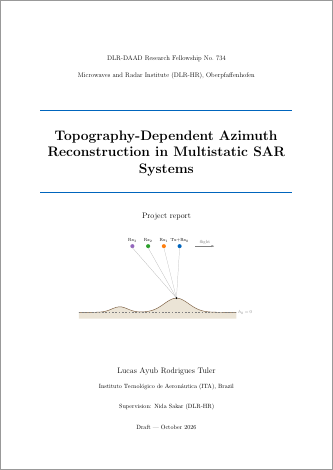
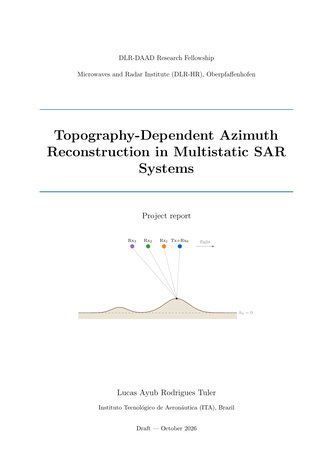
Remove the fellowship number and the supervision line; keep only the citations

diff --git a/sar_reconstruction/sar_recon/subband_sata_explicit.py b/sar_reconstruction/sar_recon/subband_sata_explicit.py
@@ -87,7 +87,7 @@ def sata_1d_subband(data, delta_C0_array, rref, prf, v, wl, r,
       f_k     : Doppler centroid of sub-band k [Hz]  (= (-Nrx/2+k+1/2)*PRF_op)
       beta_k  : beam angle of that centroid [rad]     (= asin(wl f_k / 2 v))
       f_dc    : OPTIONAL per-channel Doppler-centroid deviation [Hz] to add to
-                the sub-band centre (Nida thesis Eq. 3.38). Default 0.0 leaves
+                the sub-band centre (Sakar 2022, Eq. 3.38). Default 0.0 leaves
                 behaviour identical to before. When non-zero, the whole
                 f -> beta -> x_i axis (and the reference beam) is shifted by
                 f_dc, i.e. the sub-band centre is repositioned at f_k + f_dc.
@@ -177,7 +177,7 @@ def sata_1d_subband(data, delta_C0_array, rref, prf, v, wl, r,
 # 2) SATA every channel for one sub-band k, using the explicit kernel
 # ---------------------------------------------------------------------------
 def doppler_centroid_deviation(cfg, tracks, channel):
-    """Per-channel Doppler-centroid deviation df_DC,i [Hz] from the Nida thesis
+    """Per-channel Doppler-centroid deviation df_DC,i [Hz] from Sakar (2022),
     Eq. (3.38):
 
         df_DC,i = (Dt_i v^2) / (wl sqrt(r_ref^2 + v^2 Dt_i^2))  -  c1(b_i) / wl,

diff --git a/report/preamble.tex b/report/preamble.tex
@@ -26,7 +26,7 @@
             backref=page]{hyperref}
 \hypersetup{pdftitle={Topography-Dependent Azimuth Reconstruction in Multistatic SAR Systems},
             pdfauthor={Lucas Ayub Rodrigues Tuler},
-            pdfsubject={Project report, DLR-DAAD Research Fellowship No. 734, DLR-HR},
+            pdfsubject={Project report, DLR-DAAD Research Fellowship, DLR-HR},
             pdfkeywords={SAR, HRWS, multistatic, azimuth reconstruction, topography, SATA, joint reconstruction}}
 \renewcommand*{\backref}[1]{}
 \renewcommand*{\backrefalt}[4]{\ifcase #1 \or {\footnotesize (cited on page~#2)}\else {\footnotesize (cited on pages~#2)}\fi}

diff --git a/report/sections/titlepage.tex b/report/sections/titlepage.tex
@@ -1,7 +1,7 @@
 \begin{titlepage}
 \centering
 \vspace*{0.2cm}
-{\large DLR-DAAD Research Fellowship No.~734\par}
+{\large DLR-DAAD Research Fellowship\par}
 \vspace{0.3cm}
 {\large Microwaves and Radar Institute (DLR-HR), Oberpfaffenhofen\par}
 \vspace{1.4cm}
@@ -35,8 +35,6 @@
 {\Large Lucas Ayub Rodrigues Tuler\par}
 \vspace{0.2cm}
 {\normalsize Instituto Tecnol\'ogico de Aeron\'autica (ITA), Brazil\par}
-\vspace{0.6cm}
-{\normalsize Supervision: Nida Sakar (DLR-HR)\par}
 \vspace{0.6cm}
 {\normalsize Draft --- October 2026\par}
 \end{titlepage}

diff --git a/runs/core/run_subband_explicit_eval.py b/runs/core/run_subband_explicit_eval.py
@@ -1,7 +1,7 @@
 # -*- coding: utf-8 -*-
 r"""
 Evaluate the EXPLICIT per-sub-band SATA reconstruction and compare it against
-the other methods, to check whether fixing the issues Nida pointed out (the
+the other methods, to check whether fixing the known issues of the old axis (the
 per-sub-band f -> beta -> x_i frequency-axis rebuild, i.e. the Nyquist-edge
 degeneracy of the old squint-based axis for even Nrx) makes the new sub-band
 model actually work, and how it stacks up against whole-band SATA.

diff --git a/report/README.md b/report/README.md
@@ -14,7 +14,7 @@ latexmk -pdf report.tex                                    # pdflatex + bibtex
 The figures are TikZ/pgfplots in the `.tex` files; the plotted numbers come from `data/*.dat` and `numbers.tex`,
 written by `scripts/make_data.py` from the sweep outputs (`all_numbers.json` of `sweep_joint_all.py`,
 `run_sweep_joint2d_all.py` and `audit_dem.py`), which are not versioned. `figures/*.pdf` are made by
-`scripts/make_figures.py` with the code of this repository; the three PNG pages are copied from the sweeps.
+`scripts/make_figures.py` with the code of this repository; the PNG pages are copied from the sweeps.
 
 ```
 report.tex          main file (chapters in sections/)
